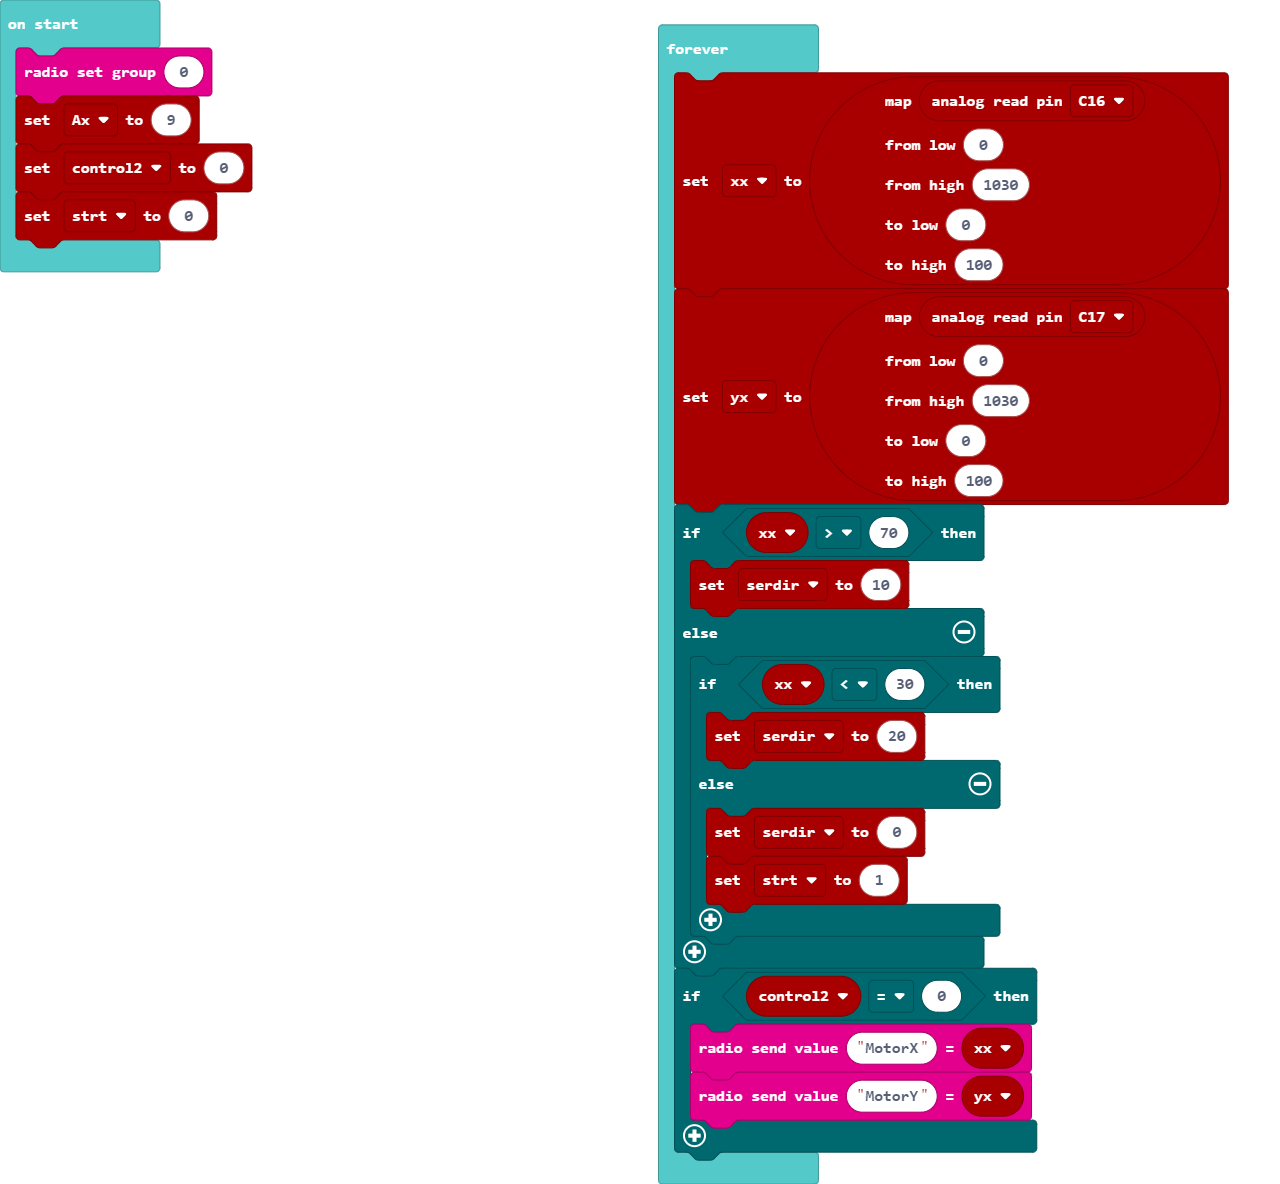
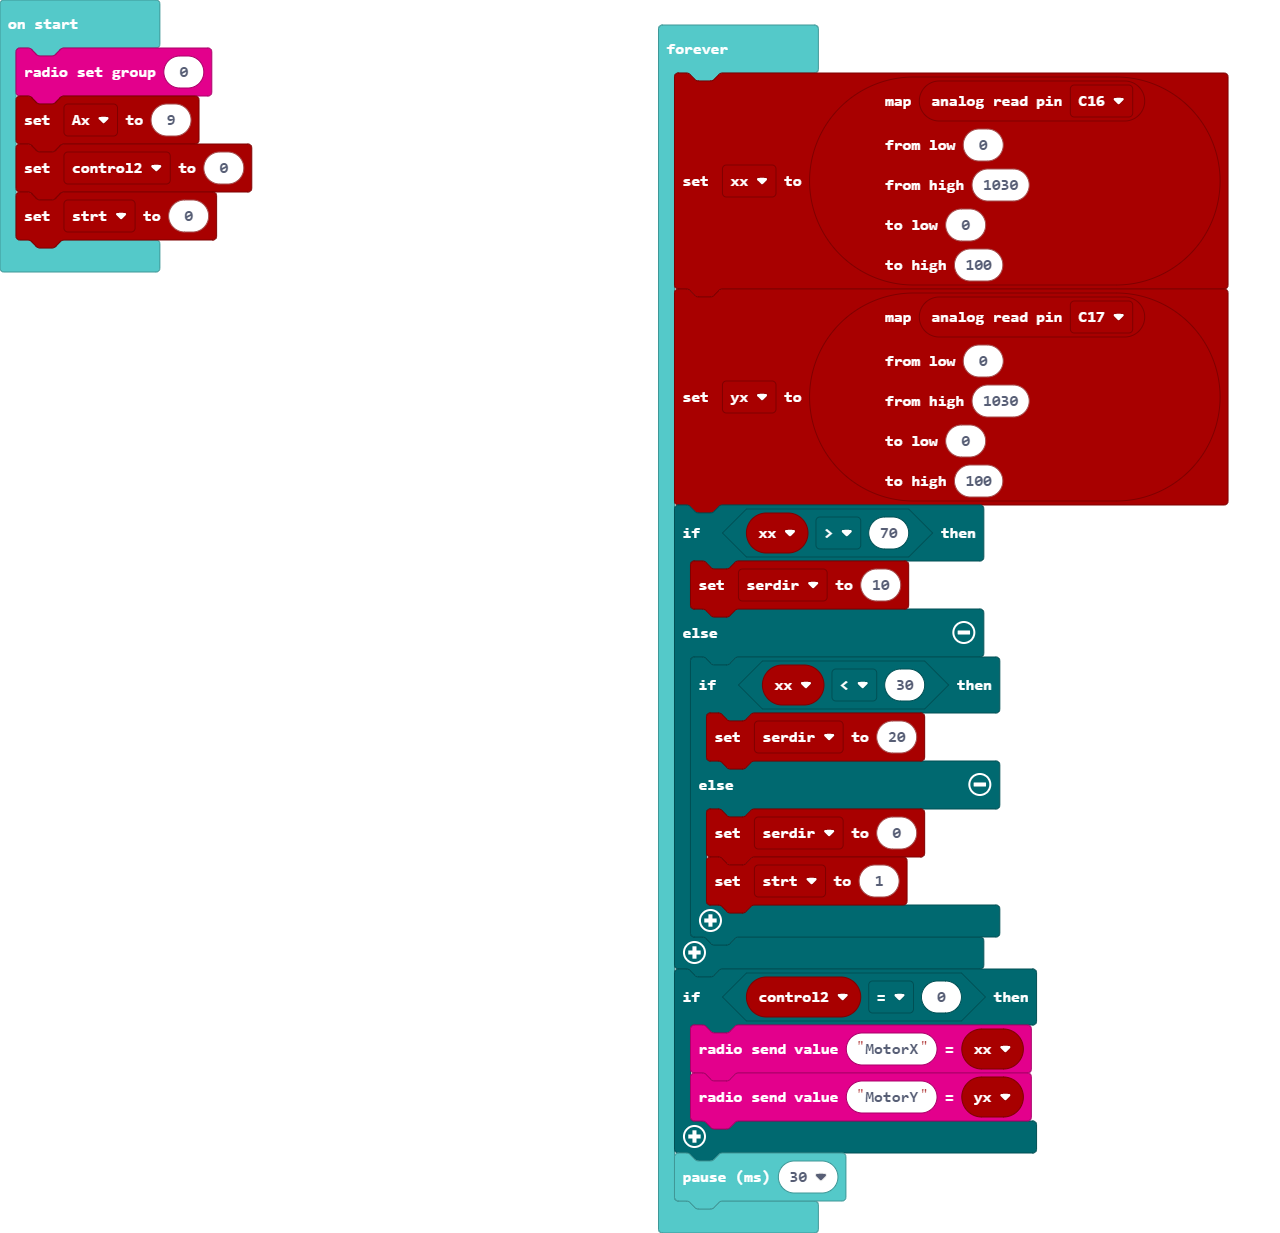
Update main.blocks, main.ts

diff --git a/main.ts b/main.ts
@@ -34,4 +34,5 @@ basic.forever(function () {
         radio.sendValue("MotorX", xx)
         radio.sendValue("MotorY", yx)
     }
+    basic.pause(30)
 })
